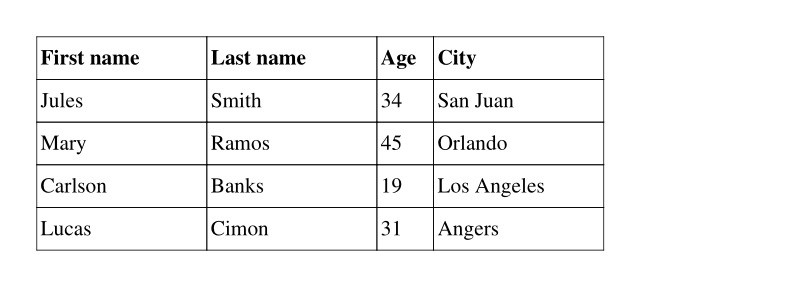
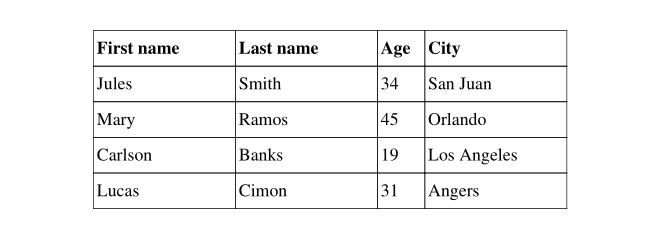
Implementing table centering

Changed region(s): [[0.0303, 0.1134, 0.8788, 0.8785], [0.3636, 0.3117, 0.4242, 0.3684]]

diff --git a/fpdf/table.py b/fpdf/table.py
@@ -15,8 +15,11 @@ class Table:
     def __init__(self, fpdf):
         self._fpdf = fpdf
         self._rows = []
-        self.align = "LEFT"
-        "Control text alignment inside cells"
+        self.align = "CENTER"
+        """
+        Sets the table horizontal position relative to the page,
+        when it's not using the full page width
+        """
         self.borders_layout = TableBordersLayout.ALL
         "Control what cell borders are drawn"
         self.cell_fill_color = None
@@ -31,6 +34,8 @@ class Table:
         "Defines the visual style of the top headings row: size, color, emphasis..."
         self.line_height = 2 * fpdf.font_size
         "Defines how much vertical space a line of text will occupy"
+        self.text_align = "JUSTIFY"
+        "Control text alignment inside cells. Justify by default"
         self.width = fpdf.epw
         "Sets the table width"
 
@@ -43,6 +48,22 @@ class Table:
 
     def render(self):
         "This is an internal method called by `FPDF.table()` once the table is finished"
+        if self.width > self._fpdf.epw:
+            raise ValueError(
+                f"Invalid value provided .width={self.width}: effective page width is {self._fpdf.epw}"
+            )
+        table_align = Align.coerce(self.align)
+        if table_align == Align.J:
+            raise ValueError("JUSTIFY is an invalid value for table .align")
+        prev_l_margin = self._fpdf.l_margin
+        if table_align == Align.C:
+            self._fpdf.l_margin = (self._fpdf.w - self.width) / 2
+            self._fpdf.x = self._fpdf.l_margin
+        elif table_align == Align.R:
+            self._fpdf.l_margin = self._fpdf.w - self.width
+            self._fpdf.x = self._fpdf.l_margin
+        elif self._fpdf.x != self._fpdf.l_margin:
+            self._fpdf.l_margin = self._fpdf.x
         for i in range(len(self._rows)):
             with self._fpdf.offset_rendering() as test:
                 self._render_table_row_styled(i)
@@ -59,6 +80,8 @@ class Table:
             self._render_table_row_styled(i)
             if prev_fill_color:
                 self._fpdf.set_fill_color(prev_fill_color)
+        self._fpdf.l_margin = prev_l_margin
+        self._fpdf.x = self._fpdf.l_margin
 
     def get_cell_border(self, i, j):
         """
@@ -159,14 +182,18 @@ class Table:
                 self._fpdf.set_xy(x, y)
         if not fill:
             fill = self.cell_fill_color and self.cell_fill_logic(i, j)
-        align = self.align if isinstance(self.align, (Align, str)) else self.align[j]
+        text_align = (
+            self.text_align
+            if isinstance(self.text_align, (Align, str))
+            else self.text_align[j]
+        )
         lines = self._fpdf.multi_cell(
             w=col_width,
             h=row_height,
             txt=cell.text or "",
             max_line_height=cell_line_height,
             border=self.get_cell_border(i, j),
-            align=align,
+            align=text_align,
             new_x="RIGHT",
             new_y="TOP",
             fill=fill,
@@ -224,6 +251,11 @@ class Row:
             img_fill_width (bool): optional, defaults to False. Indicates to render the image
                 using the full width of the current table column.
         """
+        if text and img:
+            raise NotImplementedError(
+                "fpdf2 currently does not support inserting text with an image in the same table cell."
+                "Pull Requests are welcome to implement this 😊"
+            )
         self.cells.append(Cell(text, img, img_fill_width))
 
 

diff --git a/test/table/test_table_with_image.py b/test/table/test_table_with_image.py
@@ -1,8 +1,9 @@
 from pathlib import Path
 
+import pytest
+
 from fpdf import FPDF
 from test.conftest import assert_pdf_equal, LOREM_IPSUM
-
 
 HERE = Path(__file__).resolve().parent
 IMG_DIR = HERE.parent / "image"
@@ -38,7 +39,7 @@ MULTILINE_TABLE_DATA = (
 )
 
 
-def test_table_with_an_image(tmp_path):
+def test_table_with_images(tmp_path):
     pdf = FPDF()
     pdf.add_page()
     pdf.set_font("Times", size=16)
@@ -50,10 +51,10 @@ def test_table_with_an_image(tmp_path):
                         row.cell(img=datum)
                     else:
                         row.cell(datum)
-    assert_pdf_equal(pdf, HERE / "table_with_an_image.pdf", tmp_path)
+    assert_pdf_equal(pdf, HERE / "table_with_images.pdf", tmp_path)
 
 
-def test_table_with_an_image_and_img_fill_width(tmp_path):
+def test_table_with_images_and_img_fill_width(tmp_path):
     pdf = FPDF()
     pdf.add_page()
     pdf.set_font("Times", size=16)
@@ -67,7 +68,7 @@ def test_table_with_an_image_and_img_fill_width(tmp_path):
                         row.cell(datum)
     assert_pdf_equal(
         pdf,
-        HERE / "table_with_an_image_and_img_fill_width.pdf",
+        HERE / "table_with_images_and_img_fill_width.pdf",
         tmp_path,
     )
 
@@ -85,3 +86,18 @@ def test_table_with_multiline_cells_and_images(tmp_path):
                     else:
                         row.cell(datum)
     assert_pdf_equal(pdf, HERE / "table_with_multiline_cells_and_images.pdf", tmp_path)
+
+
+def test_table_with_images_and_text():
+    pdf = FPDF()
+    pdf.add_page()
+    pdf.set_font("Times", size=16)
+    with pytest.raises(NotImplementedError):
+        with pdf.table() as table:
+            for i, data_row in enumerate(TABLE_DATA):
+                with table.row() as row:
+                    for j, datum in enumerate(data_row):
+                        if j == 2 and i > 0:
+                            row.cell(datum.name, img=datum)
+                        else:
+                            row.cell(datum)

diff --git a/test/table/test_table.py b/test/table/test_table.py
@@ -132,6 +132,19 @@ def test_table_with_fixed_width(tmp_path):
     assert_pdf_equal(pdf, HERE / "table_with_fixed_width.pdf", tmp_path)
 
 
+def test_table_with_invalid_width():
+    pdf = FPDF()
+    pdf.add_page()
+    pdf.set_font("Times", size=16)
+    with pytest.raises(ValueError):
+        with pdf.table() as table:
+            table.width = 200
+            for data_row in TABLE_DATA:
+                with table.row() as row:
+                    for datum in data_row:
+                        row.cell(datum)
+
+
 def test_table_without_headings(tmp_path):
     pdf = FPDF()
     pdf.add_page()
@@ -267,14 +280,14 @@ def test_table_align(tmp_path):
     pdf.add_page()
     pdf.set_font("Times", size=16)
     with pdf.table() as table:
-        table.align = "CENTER"
+        table.text_align = "CENTER"
         for data_row in TABLE_DATA:
             with table.row() as row:
                 for datum in data_row:
                     row.cell(datum)
     pdf.ln()
     with pdf.table() as table:
-        table.align = ("CENTER", "CENTER", "RIGHT", "LEFT")
+        table.text_align = ("CENTER", "CENTER", "RIGHT", "LEFT")
         for data_row in TABLE_DATA:
             with table.row() as row:
                 for datum in data_row:

diff --git a/docs/Tables.md b/docs/Tables.md
@@ -28,11 +28,14 @@ Result:
 ![](table-simple.jpg)
 
 ## Features
+* support cells with content wrapping over several lines
 * control over column & row sizes (automatically computed by default)
-* allow to style table headings, or disable them
+* allow to style table headings (top row), or disable them
+* control over borders: color, width & where they are drawn
 * handle splitting a table over page breaks, with headings repeated
 * control over cell background color
-
+* control table width & position
+* control over text alignment in cells, globally or per row
 * allow to embed images in cells
 
 ## Setting table & column widths
@@ -47,16 +50,19 @@ Result:
 
 ![](table-with-fixed-column-widths.jpg)
 
+`table.align` can be used to set the table horizontal position relative to the page,
+when it's not using the full page width. It's centered by default.
+
 ## Setting text alignment
 This can be set globally, or on a per-column basis:
 ```python
 ...
 with pdf.table() as table:
-    table.align = "CENTER"
+    table.text_align = "CENTER"
     ...
 pdf.ln()
 with pdf.table() as table:
-    table.align = ("CENTER", "CENTER", "RIGHT", "LEFT")
+    table.text_align = ("CENTER", "CENTER", "RIGHT", "LEFT")
     ...
 ```
 Result:
